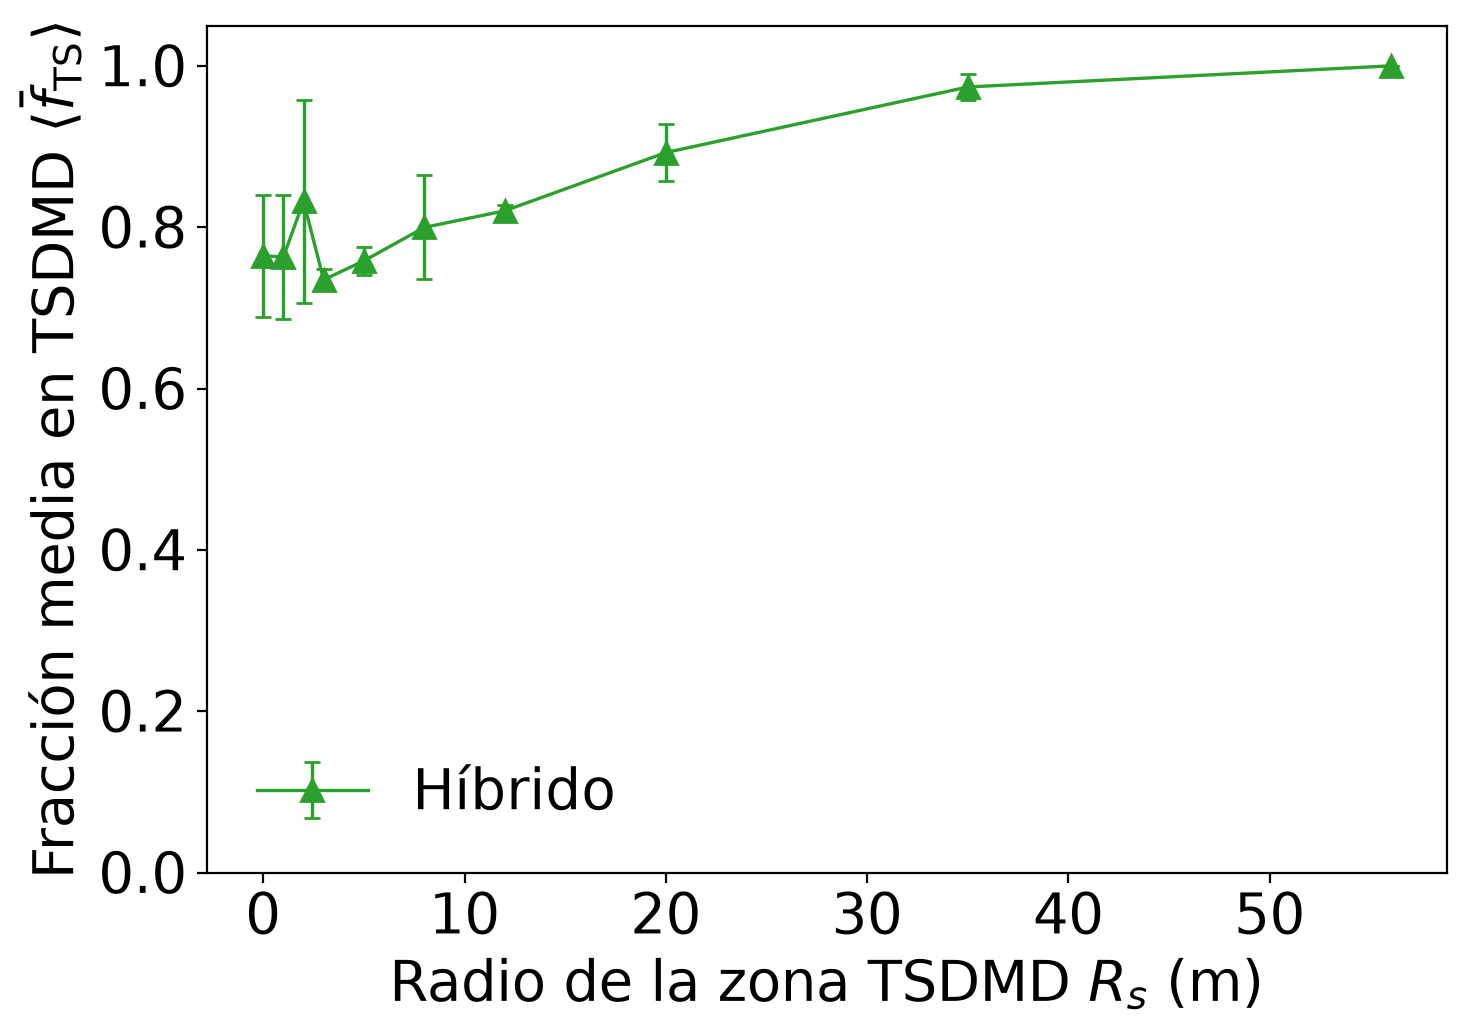
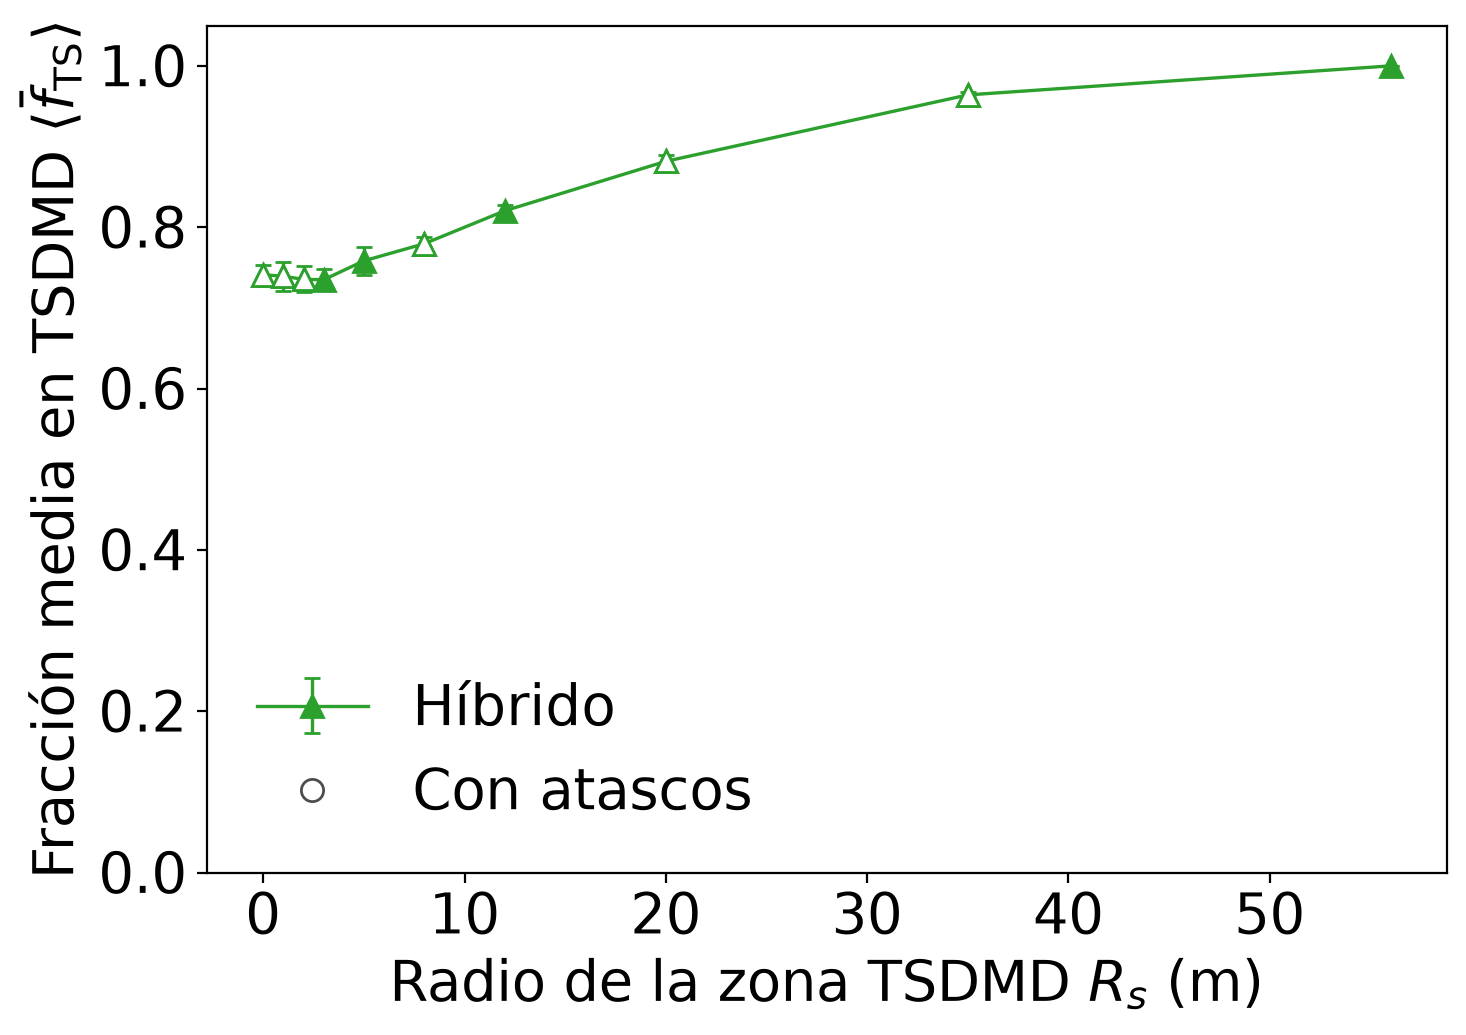
Final touches

diff --git a/presentation/main.tex b/presentation/main.tex
@@ -1319,8 +1319,8 @@
     \small
     \begin{itemize}\setlength{\itemsep}{0.45em}
       \item $\langle\tevac\rangle$ no cambia con $\dt$ entre $10^{-4}$ y $\sci{2.5}{-3}\un{s}$.
-      \item El híbrido reproduce la curva de población y el $\langle\tevac\rangle$ de TSDMD puro, para todo
-            $\Rs$; EDMD puro evacúa más lento.
+      \item El híbrido reproduce la curva de población de TSDMD puro y su $\langle\tevac\rangle$, este
+            último para todo $\Rs$; EDMD puro evacúa más lento.
       \item Con el criterio por tiempo de vuelo, la multitud pasa a TSDMD aunque $\Rs$ sea chico:
             $\langle\fTSm\rangle$ no baja de $0.7$ ni con $\Rs=0$.
       \item Con $N=200$ el híbrido cuesta entre lo mismo y un 20~\% más que TSDMD puro; EDMD puro, unas

diff --git a/DECISIONS.md b/DECISIONS.md
@@ -731,7 +731,7 @@ Explicación para la exposición, verificada contra el código (`HybridScheme`, 
 
 ### ⟨f̄_TS⟩ solo sobre las corridas completas (confirmada por el grupo)
 
-**Problema:** `runtime.py` y `schemes.py` promediaban f̄_TS sobre **todas** las corridas, incluidas las trabadas. Era la única excepción a la regla de "Corridas sin terminar en el análisis" (etapa 5): t_evac, T_ej y la curva ⟨f_TS(t)⟩ ya usaban solo las completas, y la presentación define ⟨X⟩ y σ_X "sobre las M_c realizaciones completas" para todo X. Efecto visible: el pico de ⟨f̄_TS⟩ en R_s = 2 m (0.83 ± 0.13), donde se trabaron 3 de 10 corridas.
+**Problema:** `runtime.py` y `schemes.py` promediaban f̄_TS sobre **todas** las corridas, incluidas las trabadas. Era la única excepción a la regla de "Corridas sin terminar en el análisis" (etapa 5): t_evac, T_ej y la curva ⟨f_TS(t)⟩ ya usaban solo las completas, y la presentación define ⟨X⟩ y σ_X "sobre las M_c realizaciones completas" para todo X. Efecto visible: el pico de ⟨f̄_TS⟩ en R_s = 2 m (0.83 ± 0.13), donde se trabaron 4 de 10 corridas. Re-analizado solo sobre las completas, ese punto da 0.74 ± 0.02, como sus vecinos.
 
 **Por qué una trabada no entra al promedio:** pasa unos 35–65 s evacuando y después queda quieta hasta el tope con f_TS = 1. Su f̄_TS da 0.978 con cualquier R_s, y 1.000 con un tope de 10⁵ s: lo fija el tope, no el criterio de pasaje. No es una cota, como el t_evac cortado del TP4 [Correcciones_TP4, D30: "los valores están acotados por el tiempo de simulación"].
 
@@ -777,5 +777,10 @@ Qué cambia al re-analizar:
 | `scaling` (d) | `wall_clock_vs_n_*`, `evacuation_vs_n_*` | Mismo eje y en las dos variantes, que van lado a lado [Correcciones_TP4, D23]. M sigue en 3 |
 
 El resto de las figuras de c y d se regenera con los mismos datos y queda igual. Δt, a, b y las animaciones no se tocan.
+
+**Aplicado (2026-11-15)** sobre las sesiones `c-runtime/2026-11-13_15-09-41` y `d-scaling/2026-11-13_15-23-29`.
+- Las sesiones del 09/11 y del 13/11 tienen las mismas corridas: a–b 30 de 30, c 120 de 120 y d 71 de 71 coinciden en `exits.txt` o en completas, t_evac y último cruce. Solo cambia T_ej. Por eso se pueden usar figuras de las dos fechas.
+- Cambiaron solo `c/ts_fraction_vs_rs.png` (meseta 0.73–0.74 para R_s ≤ 3 m, sin el pico) y las figuras `d/*_vs_n_*`. `c/evacuation_vs_rs.png` y las de T_ej salieron idénticas byte a byte.
+- A la copia de c le faltaba `dynamic.txt` en 11 corridas: son exactamente las 11 trabadas, que el promedio sobre las completas no lee.
 
 **Ojo:** `simulation figures` copia la última sesión de cada estudio. Con la opción `--session` se elige la original; no correrlo después de simular en otra máquina.

diff --git a/DECISIONS_SUMMARY.md b/DECISIONS_SUMMARY.md
@@ -167,7 +167,10 @@
 
 - [x] Estudio de dt: dt = 10⁻³ s
 - [x] CLI de Python (etapa 5): los cinco estudios escritos y corridos (scaling: tope 1.5 s × N, M = 3, N = 500 compartido, EDMD hasta N = 500, v_max = 8 m/s en el híbrido)
-- [ ] Presentación (etapa 6): `presentation/main.tex` armada; faltan los links de YouTube, revisar conclusiones y compilar online
+- [ ] Presentación (etapa 6): `presentation/main.tex` revisada (etapa 8) y conclusiones corregidas; faltan los links de YouTube y compilar online
+- [x] Ítem d re-analizado sin simular (sesión 2026-11-13_15-23-29): mismo eje y en las dos variantes
+- [x] Ítem c re-analizado sin simular (sesión 2026-11-13_15-09-41): ⟨f̄_TS⟩ solo sobre las completas, meseta 0.73–0.74
+- [x] Documento de defensa: `notes/defensa_TP5.md` (teoría, decisiones, preguntas y guion)
 
 ## Notas del profesor (2026-11-13)
 
